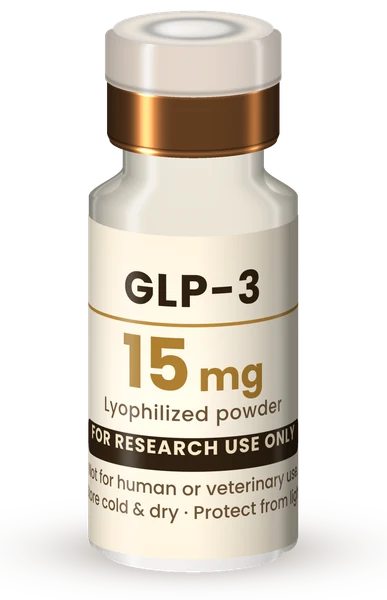
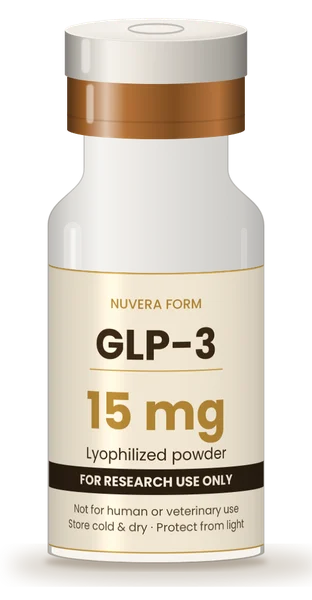
GLP-3, bundle and GHK-Cu Serum images in the new studio style
- GLP-3 5/10/15 mg re-rendered to match the rest of the catalog
- Bundles show both real products side by side
- GHK-Cu Serum: dropper bottle with a Nuvera Form label (ingredients,
  how to use, 30 ml, external use only)

Claude-Session: https://claude.ai/code/session_0187QizhTywBw29XkkMuAALE

diff --git a/index.html b/index.html
@@ -121,7 +121,7 @@ body{font-family:'Poppins',sans-serif;background:var(--champ);color:var(--brown)
 <div class="grid sm:grid-cols-2 lg:grid-cols-4 gap-5 items-start">
 <article class="card p-5 flex flex-col ring-2 ring-[#BF943C]">
 <div class="flex justify-between items-start mb-3"><span class="badge">In stock</span><span class="badge" style="background:var(--gold);color:#fff;border-color:var(--gold)">Available now</span></div>
-<div class="flex items-center justify-center mb-3 rounded-2xl" style="height:11rem;background:linear-gradient(160deg,var(--sand),var(--champ))"><img src="/assets/products/ghk-cu-serum-30ml.webp" alt="GHK-Cu Serum, 30 ml dropper bottle" width="200" height="357" loading="lazy" decoding="async" style="height:100%;width:auto;object-fit:contain;padding:.35rem 0;border-radius:.75rem"></div>
+<div class="flex items-center justify-center mb-3 rounded-2xl" style="height:14rem;padding:.5rem 0;background:linear-gradient(160deg,var(--sand),var(--champ))"><img src="/assets/products/ghk-cu-serum-30ml.webp" alt="GHK-Cu Serum, 30 ml dropper bottle" width="200" height="370" loading="lazy" decoding="async" style="height:100%;width:auto;object-fit:contain;padding:.35rem 0;border-radius:.75rem"></div>
 <h3 class="font-bold leading-snug">GHK-Cu Serum</h3>
 <p class="text-xs mt-1">30 ml · 1 fl oz · For face, neck, chest and hands</p>
 <p class="text-sm mt-2">A lightweight serum with copper peptide (GHK-Cu), aloe vera, niacinamide and hyaluronic acid for smoother-looking, hydrated skin.</p>
@@ -353,7 +353,7 @@ const P=[
 /* skincare: cosmetics for external use, shown in the Skincare section, not the research catalog. Keep in sync with api/_catalog.js */
 {id:'ser',n:'GHK-Cu Serum',cat:'skin',v:{'30ml':{p:49.99,s:null}}}];
 /* product photos by product id and size; products without one fall back to the drawn vial */
-const IMG={ser:{'30ml':'/assets/products/ghk-cu-serum-30ml.webp'},ghk:{'100mg':'/assets/products/ghk-cu-100mg.webp'},ta1:{'10mg':'/assets/products/thymosin-alpha-1-10mg.webp'},bpc:{'10mg':'/assets/products/bpc-157-tb-500-10mg.webp'},nad:{'500mg':'/assets/products/nad-plus-500mg.webp'},cjc:{'10mg':'/assets/products/cjc-1295-ipamorelin-10mg.webp'},mot:{'10mg':'/assets/products/mots-c-10mg.webp'},klo:{'Blend':'/assets/products/klow-blend.webp'},kis:{'10mg':'/assets/products/kisspeptin-10mg.webp'},bac:{'10ml':'/assets/products/bacteriostatic-water-10ml.webp'},cag:{'5mg':'/assets/products/cagrilintide-5mg.webp'},dsi:{'10mg':'/assets/products/dsip-10mg.webp'},tes:{'10mg':'/assets/products/tesamorelin-10mg.webp'},kpv:{'10mg':'/assets/products/kpv-10mg.webp'},ami:{'10mg':'/assets/products/5-amino-1mq-10mg.webp'},ret:{'5mg':'/assets/products/glp-3-5mg.webp','10mg':'/assets/products/glp-3-10mg.webp','15mg':'/assets/products/glp-3-15mg.webp'}};
+const IMG={ser:{'30ml':'/assets/products/ghk-cu-serum-30ml.webp'},bn1:{'Bundle':'/assets/products/bundle-recovery-duo.webp'},bn2:{'Bundle':'/assets/products/bundle-glp-3-bac-water.webp'},ghk:{'100mg':'/assets/products/ghk-cu-100mg.webp'},ta1:{'10mg':'/assets/products/thymosin-alpha-1-10mg.webp'},bpc:{'10mg':'/assets/products/bpc-157-tb-500-10mg.webp'},nad:{'500mg':'/assets/products/nad-plus-500mg.webp'},cjc:{'10mg':'/assets/products/cjc-1295-ipamorelin-10mg.webp'},mot:{'10mg':'/assets/products/mots-c-10mg.webp'},klo:{'Blend':'/assets/products/klow-blend.webp'},kis:{'10mg':'/assets/products/kisspeptin-10mg.webp'},bac:{'10ml':'/assets/products/bacteriostatic-water-10ml.webp'},cag:{'5mg':'/assets/products/cagrilintide-5mg.webp'},dsi:{'10mg':'/assets/products/dsip-10mg.webp'},tes:{'10mg':'/assets/products/tesamorelin-10mg.webp'},kpv:{'10mg':'/assets/products/kpv-10mg.webp'},ami:{'10mg':'/assets/products/5-amino-1mq-10mg.webp'},ret:{'5mg':'/assets/products/glp-3-5mg.webp','10mg':'/assets/products/glp-3-10mg.webp','15mg':'/assets/products/glp-3-15mg.webp'}};
 const pic=(p,v)=>{const u=IMG[p.id]&&IMG[p.id][v];return u?`<img src="${u}" alt="${p.n} ${v.replace(/(\d)(m[gl])/,'$1 $2')} vial" width="200" height="311" loading="lazy" decoding="async" style="height:100%;width:auto;object-fit:contain;padding:.35rem 0">`:vial(v)};
 const CATS={all:'All',star:'Star product',blend:'Blends',metabolic:'Metabolic research',recovery:'Recovery & repair',water:'Reconstitution',bundle:'Bundles'};
 let st={f:'all',q:'',sel:{},cart:JSON.parse(ls.get('nv_cart')||'[]'),code:ls.get('nv_code')||(ls.get('nv_promo')==='1'?'NUVERA10':''),note:'',ship:ls.get('nv_ship')==='overnight'?'overnight':'ground'};
